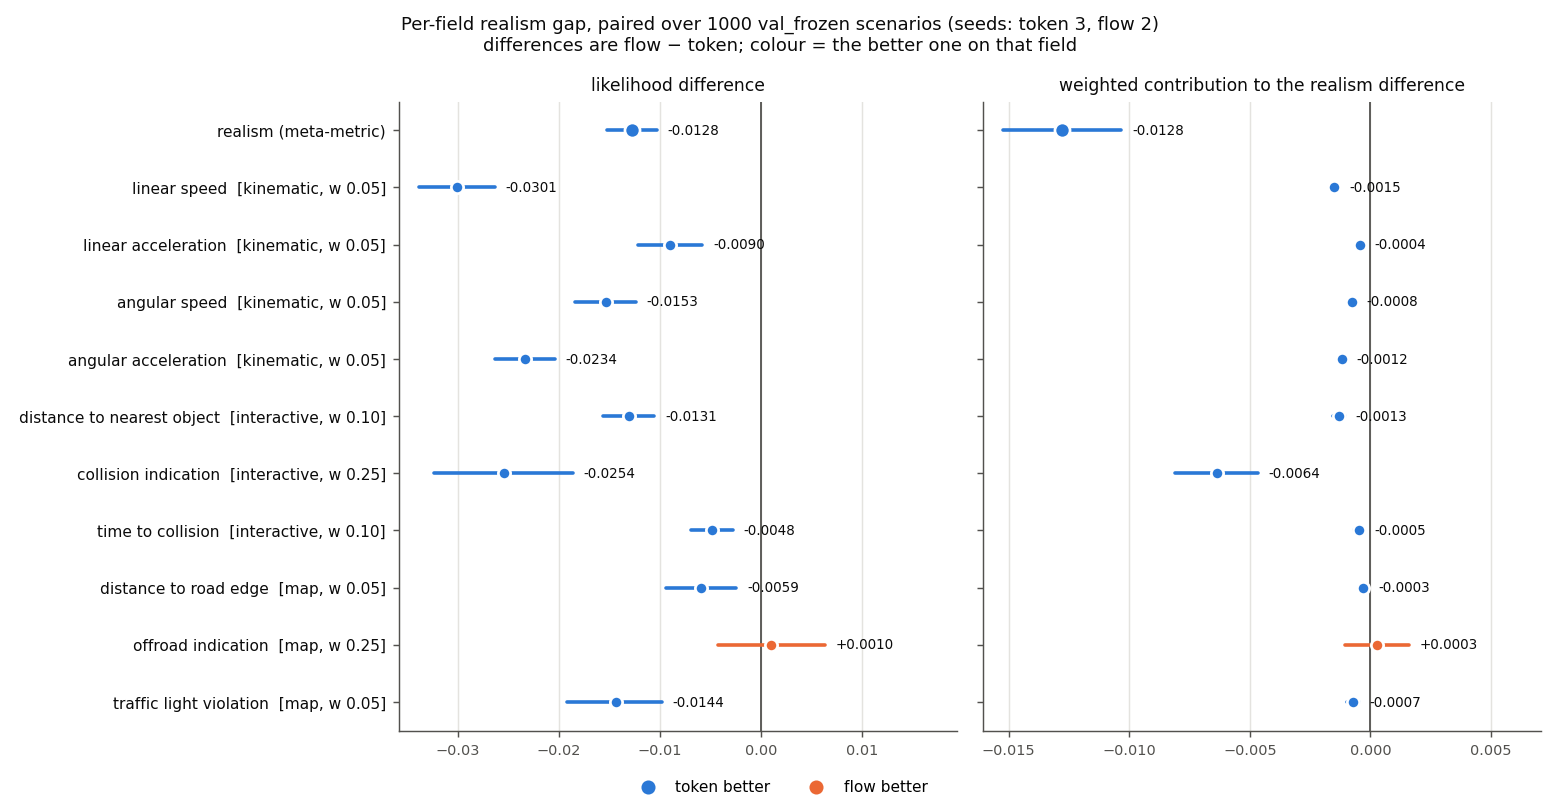
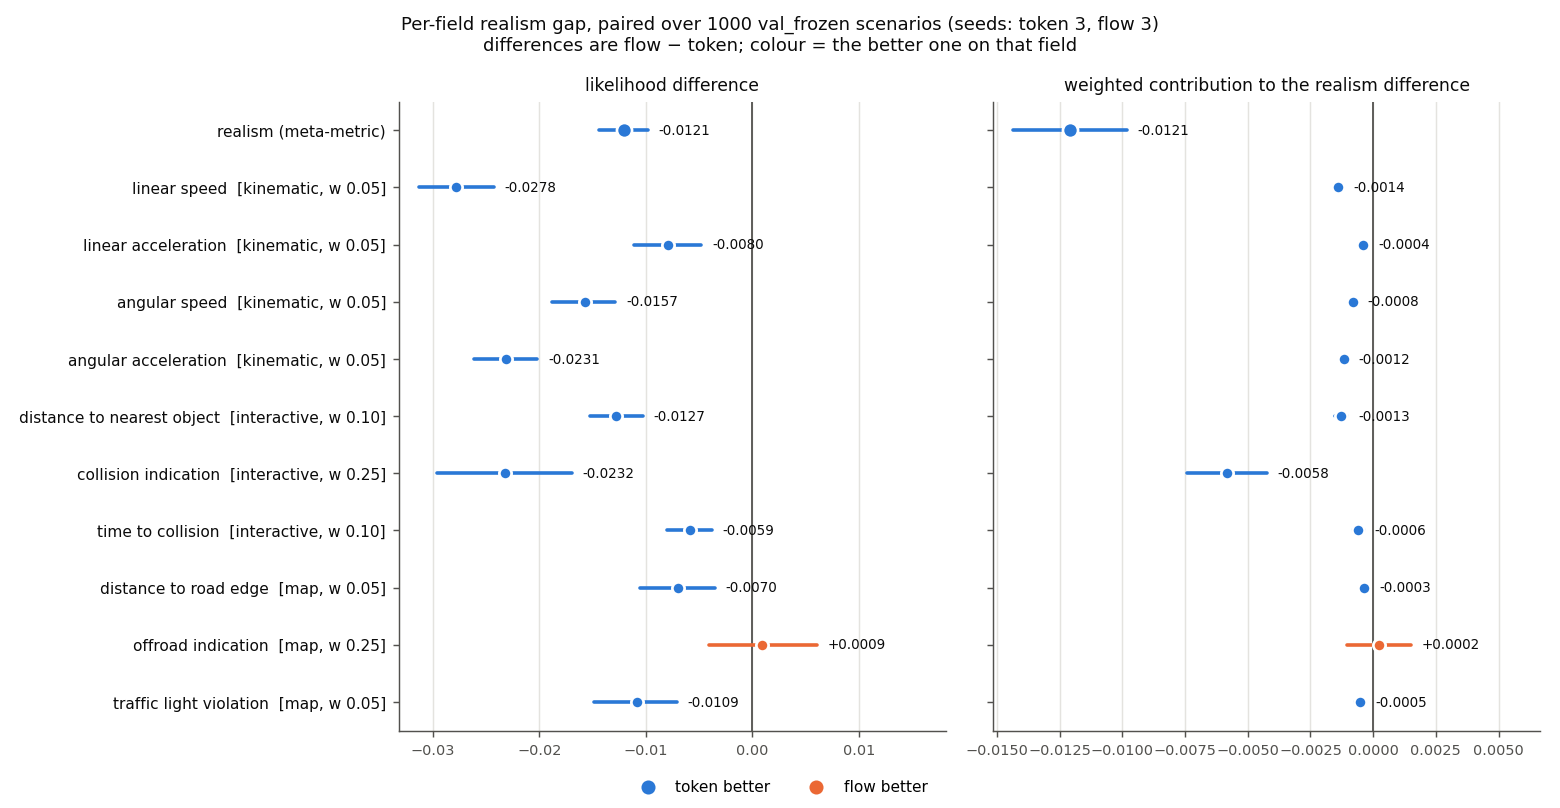
results: flow baseline seed 2 and three-seed comparison

diff --git a/src/tokens_vs_flows/figures.py b/src/tokens_vs_flows/figures.py
@@ -73,8 +73,8 @@ def head_comparison(arms: Dict[str, List[Path]], out: Path, refs: Optional[Dict[
         lo, hi = np.nanmin(all_vals), np.nanmax(all_vals)
         pad = 0.25 * (hi - lo) if hi > lo else 0.05 * max(abs(hi), 1e-3)
         ax.set_ylim(lo - pad, hi + pad)
-    n = {a: len(r) for a, r in arms.items()}
-    fig.suptitle(title or f"Token vs flow head on SMART-nano: val_frozen, 32 rollouts, seeds {n} "
+    n = ", ".join(f"{a} {len(r)}" for a, r in arms.items())
+    fig.suptitle(title or f"Token vs flow head on SMART-nano: val_frozen, 32 rollouts, seeds: {n} "
                           "(dot = seed, tick = mean; ↑/↓ = higher/lower is better)", fontsize=10.5, color=INK)
     fig.tight_layout()
     out.parent.mkdir(parents=True, exist_ok=True)
